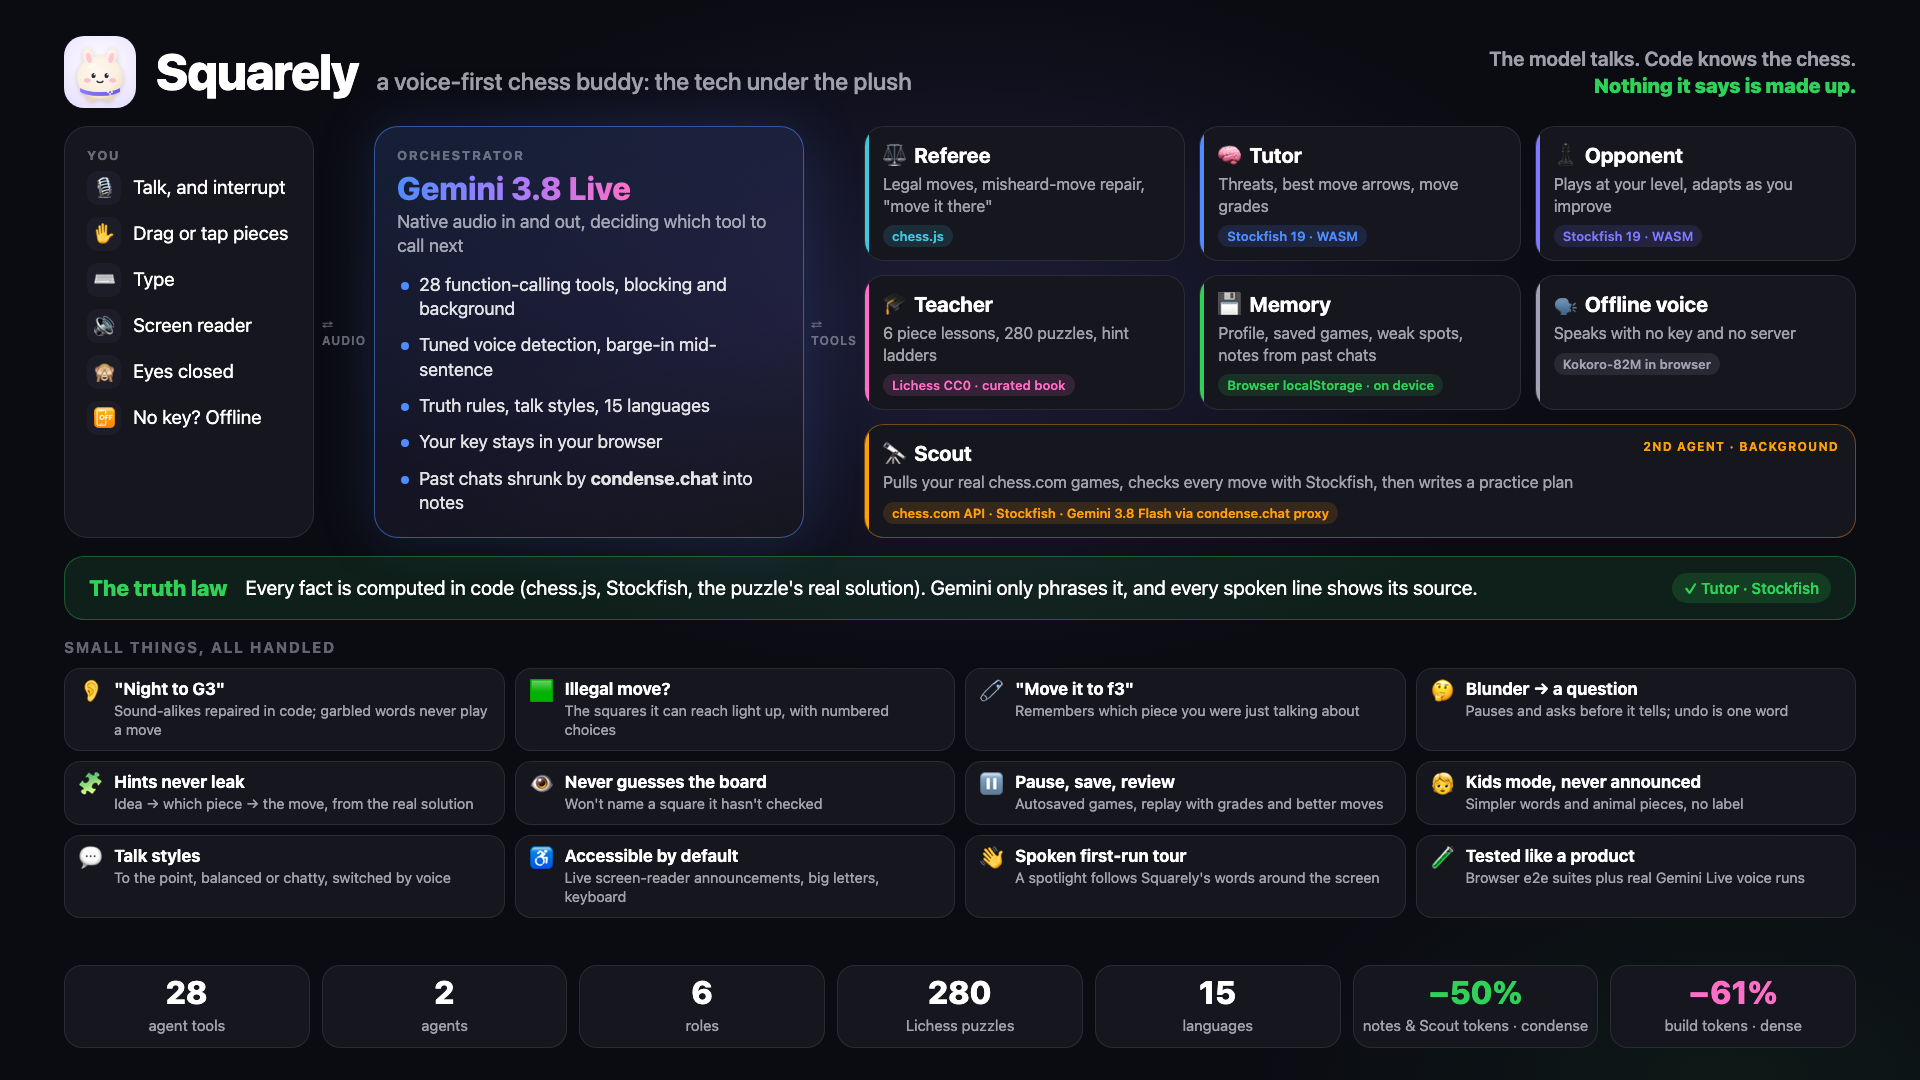
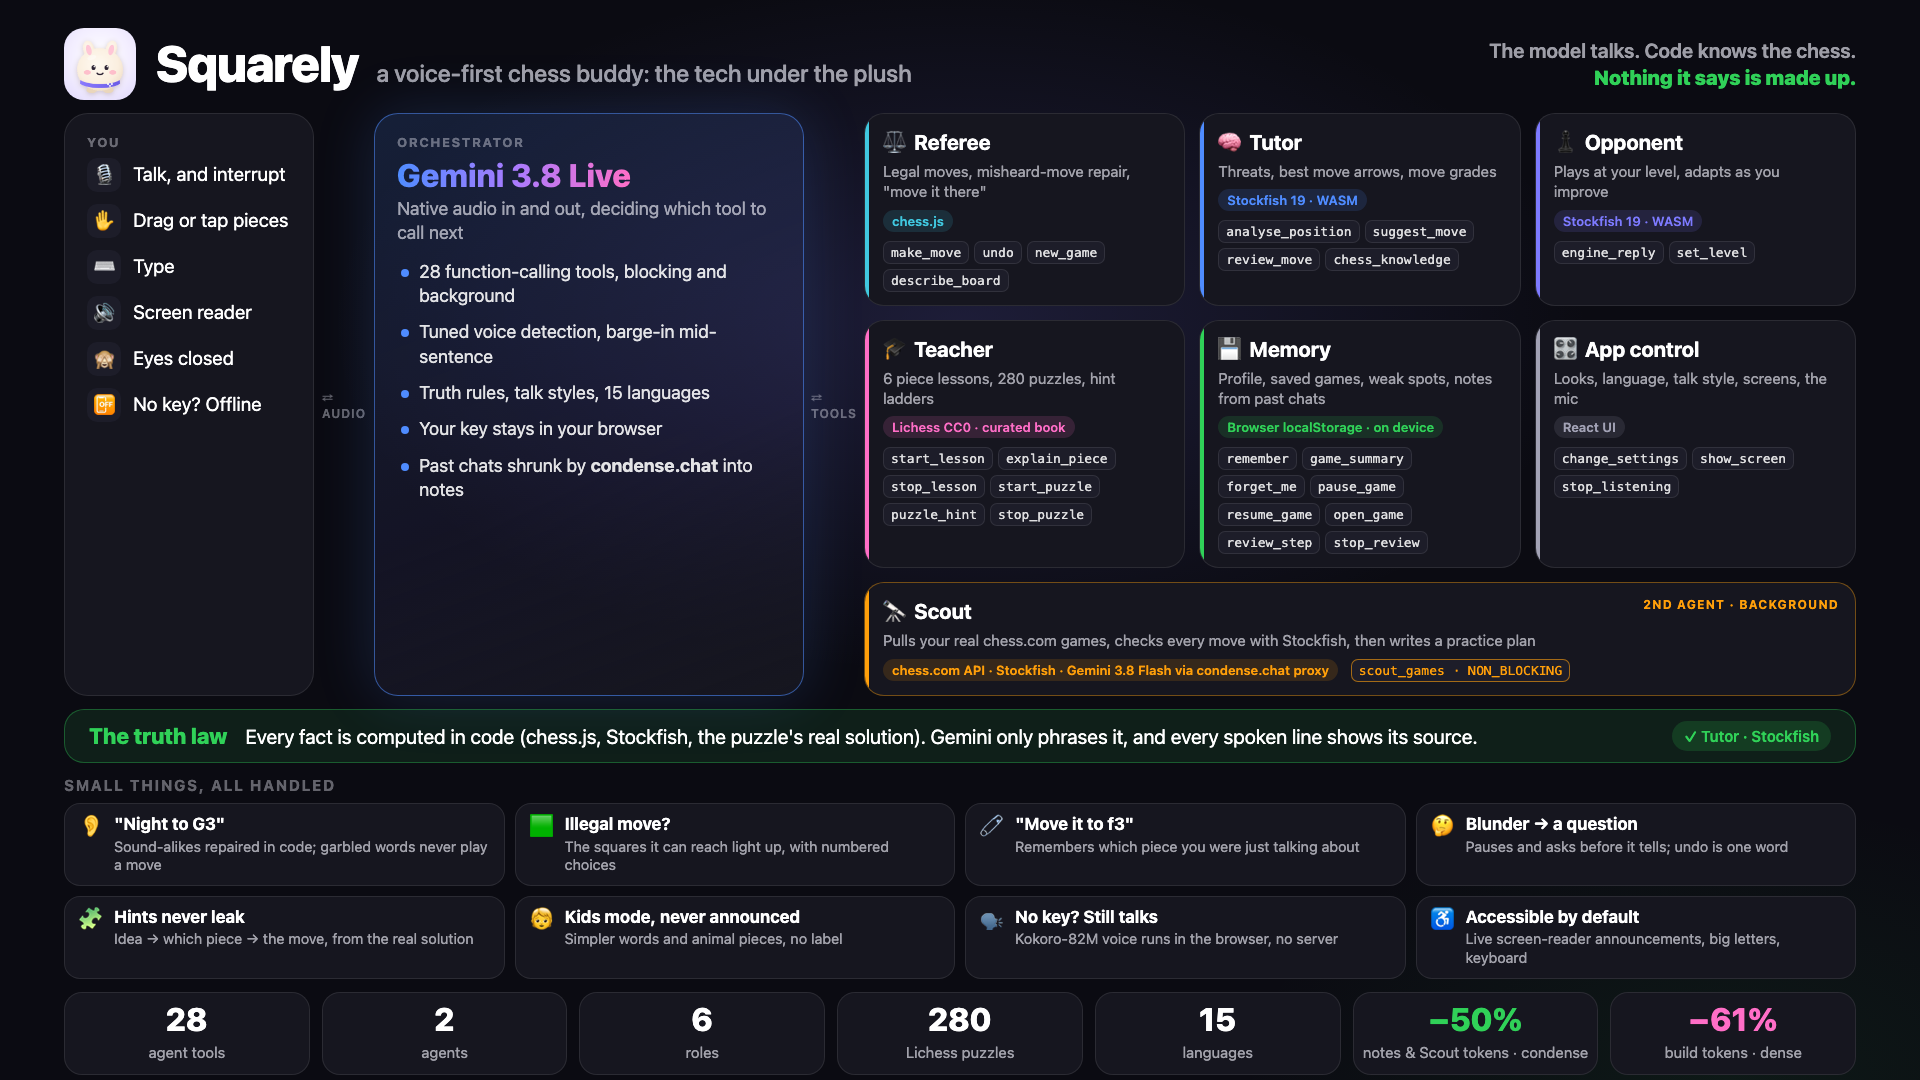
Diagram names all 28 tools under the role that owns them

diff --git a/docs/images/tech.html b/docs/images/tech.html
@@ -15,7 +15,7 @@
   body {
     width: 1920px; height: 1080px; overflow: hidden; background: var(--bg); color: var(--label); font: 20px/1.35 var(--font);
     background-image: radial-gradient(900px 500px at 50% 30%, rgba(125,122,255,0.16), transparent 70%), radial-gradient(700px 400px at 90% 100%, rgba(48,209,88,0.07), transparent 70%);
-    padding: 36px 64px 32px; display: grid; grid-template-rows: auto auto auto 1fr auto; gap: 18px;
+    padding: 28px 64px 24px; display: grid; grid-template-rows: auto auto auto 1fr auto; gap: 13px;
   }
   h1 { font: 800 50px/1 var(--rounded); letter-spacing: -0.02em; }
   h1 small { font: 500 24px var(--font); color: var(--label-2); margin-left: 18px; letter-spacing: 0; }
@@ -45,18 +45,21 @@
   .role::before { content: ''; position: absolute; inset: 0 auto 0 0; width: 4px; background: var(--c); }
   .role h3 { font: 700 21px var(--rounded); display: flex; align-items: center; gap: 8px; }
   .role h3 span { font-size: 22px; }
-  .role p { color: var(--label-2); font-size: 16px; margin-top: 4px; }
+  .role p { color: var(--label-2); font-size: 15px; margin-top: 4px; }
   .role .src { display: inline-block; margin-top: 8px; font: 600 13px var(--font); color: var(--c); background: color-mix(in srgb, var(--c) 14%, transparent); padding: 3px 9px; border-radius: 999px; }
+  .role .tools { display: flex; flex-wrap: wrap; gap: 5px; margin-top: 9px; }
+  .role .tools code { font: 500 13px/1 ui-monospace, 'SF Mono', Menlo, monospace; color: rgba(255,255,255,0.86); background: var(--card-2); border: 1px solid var(--line); padding: 4px 7px; border-radius: 7px; }
+  .role .tools code.bg { border-color: rgba(255,159,10,0.6); color: var(--orange); }
   .role.scout { grid-column: span 3; border-color: rgba(255,159,10,0.4); }
   .role.scout .tag { position: absolute; top: 14px; right: 16px; font: 700 12px var(--font); letter-spacing: 0.1em; text-transform: uppercase; color: var(--orange); }
 
   /* truth band */
-  .truth { display: flex; align-items: center; gap: 18px; padding: 16px 24px; border-radius: 20px; background: rgba(48,209,88,0.1); border: 1px solid rgba(48,209,88,0.35); font-size: 20px; }
+  .truth { display: flex; align-items: center; gap: 18px; padding: 11px 24px; border-radius: 20px; background: rgba(48,209,88,0.1); border: 1px solid rgba(48,209,88,0.35); font-size: 20px; }
   .truth b { font: 800 22px var(--rounded); color: var(--green); white-space: nowrap; }
   .truth .rc { margin-left: auto; white-space: nowrap; font: 600 15px var(--font); color: var(--green); background: rgba(48,209,88,0.16); padding: 6px 12px; border-radius: 999px; }
 
   /* details */
-  .details h4 { font: 700 15px var(--font); letter-spacing: 0.12em; text-transform: uppercase; color: var(--label-3); margin-bottom: 12px; }
+  .details h4 { font: 700 15px var(--font); letter-spacing: 0.12em; text-transform: uppercase; color: var(--label-3); margin-bottom: 9px; }
   .grid { display: grid; grid-template-columns: repeat(4, 1fr); gap: 10px; }
   .d { background: var(--card); border: 1px solid var(--line); border-radius: 16px; padding: 10px 14px; display: flex; gap: 12px; align-items: flex-start; }
   .d i { font-style: normal; font-size: 22px; line-height: 1.1; }
@@ -106,13 +109,13 @@
     </div>
     <div class="arrow"><span>⇄<br />tools</span></div>
     <div class="roles">
-      <div class="role" style="--c: var(--teal)"><h3><span>⚖</span>Referee</h3><p>Legal moves, misheard-move repair, "move it there"</p><span class="src">chess.js</span></div>
-      <div class="role" style="--c: var(--gem)"><h3><span>🧠</span>Tutor</h3><p>Threats, best move arrows, move grades</p><span class="src">Stockfish 19 · WASM</span></div>
-      <div class="role" style="--c: var(--tint)"><h3><span>♟</span>Opponent</h3><p>Plays at your level, adapts as you improve</p><span class="src">Stockfish 19 · WASM</span></div>
-      <div class="role" style="--c: var(--pink)"><h3><span>🎓</span>Teacher</h3><p>6 piece lessons, 280 puzzles, hint ladders</p><span class="src">Lichess CC0 · curated book</span></div>
-      <div class="role" style="--c: var(--green)"><h3><span>💾</span>Memory</h3><p>Profile, saved games, weak spots, notes from past chats</p><span class="src">Browser localStorage · on device</span></div>
-      <div class="role" style="--c: #a2a2b5"><h3><span>🗣</span>Offline voice</h3><p>Speaks with no key and no server</p><span class="src">Kokoro-82M in browser</span></div>
-      <div class="role scout" style="--c: var(--orange)"><span class="tag">2nd agent · background</span><h3><span>🔭</span>Scout</h3><p>Pulls your real chess.com games, checks every move with Stockfish, then writes a practice plan</p><span class="src">chess.com API · Stockfish · Gemini 3.8 Flash via condense.chat proxy</span></div>
+      <div class="role" style="--c: var(--teal)"><h3><span>⚖</span>Referee</h3><p>Legal moves, misheard-move repair, "move it there"</p><span class="src">chess.js</span><div class="tools"><code>make_move</code><code>undo</code><code>new_game</code><code>describe_board</code></div></div>
+      <div class="role" style="--c: var(--gem)"><h3><span>🧠</span>Tutor</h3><p>Threats, best move arrows, move grades</p><span class="src">Stockfish 19 · WASM</span><div class="tools"><code>analyse_position</code><code>suggest_move</code><code>review_move</code><code>chess_knowledge</code></div></div>
+      <div class="role" style="--c: var(--tint)"><h3><span>♟</span>Opponent</h3><p>Plays at your level, adapts as you improve</p><span class="src">Stockfish 19 · WASM</span><div class="tools"><code>engine_reply</code><code>set_level</code></div></div>
+      <div class="role" style="--c: var(--pink)"><h3><span>🎓</span>Teacher</h3><p>6 piece lessons, 280 puzzles, hint ladders</p><span class="src">Lichess CC0 · curated book</span><div class="tools"><code>start_lesson</code><code>explain_piece</code><code>stop_lesson</code><code>start_puzzle</code><code>puzzle_hint</code><code>stop_puzzle</code></div></div>
+      <div class="role" style="--c: var(--green)"><h3><span>💾</span>Memory</h3><p>Profile, saved games, weak spots, notes from past chats</p><span class="src">Browser localStorage · on device</span><div class="tools"><code>remember</code><code>game_summary</code><code>forget_me</code><code>pause_game</code><code>resume_game</code><code>open_game</code><code>review_step</code><code>stop_review</code></div></div>
+      <div class="role" style="--c: #a2a2b5"><h3><span>🎛</span>App control</h3><p>Looks, language, talk style, screens, the mic</p><span class="src">React UI</span><div class="tools"><code>change_settings</code><code>show_screen</code><code>stop_listening</code></div></div>
+      <div class="role scout" style="--c: var(--orange)"><span class="tag">2nd agent · background</span><h3><span>🔭</span>Scout</h3><p>Pulls your real chess.com games, checks every move with Stockfish, then writes a practice plan</p><span class="src">chess.com API · Stockfish · Gemini 3.8 Flash via condense.chat proxy</span> <div class="tools" style="display:inline-flex;margin-left:8px"><code class="bg">scout_games · NON_BLOCKING</code></div></div>
     </div>
   </section>
 
@@ -130,13 +133,9 @@
       <div class="d"><i>🧷</i><div><b>"Move it to f3"</b><small>Remembers which piece you were just talking about</small></div></div>
       <div class="d"><i>🤔</i><div><b>Blunder → a question</b><small>Pauses and asks before it tells; undo is one word</small></div></div>
       <div class="d"><i>🧩</i><div><b>Hints never leak</b><small>Idea → which piece → the move, from the real solution</small></div></div>
-      <div class="d"><i>👁</i><div><b>Never guesses the board</b><small>Won't name a square it hasn't checked</small></div></div>
-      <div class="d"><i>⏸</i><div><b>Pause, save, review</b><small>Autosaved games, replay with grades and better moves</small></div></div>
       <div class="d"><i>🧒</i><div><b>Kids mode, never announced</b><small>Simpler words and animal pieces, no label</small></div></div>
-      <div class="d"><i>💬</i><div><b>Talk styles</b><small>To the point, balanced or chatty, switched by voice</small></div></div>
+      <div class="d"><i>🗣</i><div><b>No key? Still talks</b><small>Kokoro-82M voice runs in the browser, no server</small></div></div>
       <div class="d"><i>♿</i><div><b>Accessible by default</b><small>Live screen-reader announcements, big letters, keyboard</small></div></div>
-      <div class="d"><i>👋</i><div><b>Spoken first-run tour</b><small>A spotlight follows Squarely's words around the screen</small></div></div>
-      <div class="d"><i>🧪</i><div><b>Tested like a product</b><small>Browser e2e suites plus real Gemini Live voice runs</small></div></div>
     </div>
   </section>
 
